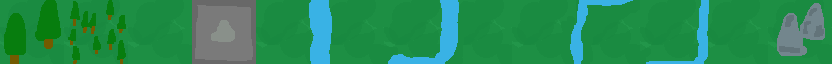
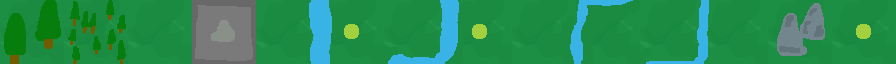
MC-01 : Node selector/cleaner + new tileAtlas + buildable zone

diff --git a/views/assets/ville.js b/views/assets/ville.js
@@ -2,19 +2,20 @@ var currentIndex = 1;
 window.onload = function () {
     document.getElementById("rochers").addEventListener("click", changeNode);
     document.getElementById("arbres").addEventListener("click", changeNode);
+    document.getElementById("clear").addEventListener("click", changeNode);
     var map = {
         cols: 11,
         rows: 11,
         tsize: 64,
         tiles: [
-            03, 03, 01, 03, 05, 06, 03, 03, 03, 03, 13,
-            13, 03, 03, 03, 07, 08, 03, 03, 01, 03, 02,
-            04, 03, 03, 09, 10, 03, 03, 03, 03, 03, 02,
-            04, 03, 03, 11, 12, 03, 01, 03, 03, 03, 13,
-            04, 04, 03, 03, 03, 03, 03, 03, 03, 02, 02,
-            04, 13, 03, 03, 03, 03, 03, 03, 13, 02, 02,
-            04, 03, 03, 03, 03, 03, 03, 03, 02, 02, 02,
-            03, 03, 01, 03, 03, 03, 03, 03, 03, 02, 02,
+            03, 03, 01, 03, 05, 06, 14, 14, 14, 03, 13,
+            13, 03, 03, 03, 07, 08, 14, 14, 01, 03, 02,
+            04, 03, 03, 09, 10, 14, 14, 14, 14, 03, 02,
+            04, 03, 03, 11, 12, 14, 01, 14, 14, 03, 13,
+            04, 04, 03, 03, 03, 14, 14, 14, 14, 02, 02,
+            04, 13, 03, 03, 03, 14, 14, 14, 13, 02, 02,
+            04, 03, 03, 03, 03, 14, 14, 14, 02, 02, 02,
+            03, 03, 01, 03, 03, 14, 14, 14, 03, 02, 02,
             03, 03, 03, 03, 03, 03, 01, 03, 13, 02, 02,
             13, 03, 03, 03, 03, 03, 03, 03, 02, 02, 02,
             03, 03, 03, 03, 03, 03, 13, 02, 02, 02, 02,
@@ -28,11 +29,11 @@ window.onload = function () {
         5, 6, 7, 8,
         16, 17, 18,
         27, 28, 29, 30,
-        38,40, 41,
+        38, 40, 41,
         49, 50, 51, 52,
         60, 61, 62,
         71, 72, 73,
-        82,83,84
+        82, 83, 84
     ]
     var canvas = document.getElementById('c');
     var context = document.getElementById('c').getContext('2d');
@@ -64,25 +65,29 @@ window.onload = function () {
             var coordX = Math.floor(mouseX / 64)
             var coordY = Math.floor(mouseY / 64)
             // retrieve id of the clicked square in array
-            var clickedSquare = coordX - 11 * coordY;
-
-            //if clicked square is in the buildable ones @TODO check if already building on pos
-            if (buildableSquare.includes(clickedSquare)) {
-                if (confirm('Construire sur cette case ? ' + coordX + ':' + coordY)) {
-                    contextBuilding.drawImage(
-                        tileAtlas, // image
-                        (currentIndex - 1) * map.tsize, // source x
-                        0, // source y
-                        map.tsize, // source width
-                        map.tsize, // source height
-                        coordX * map.tsize,  // target x
-                        coordY * map.tsize, // target y
-                        map.tsize, // target width
-                        map.tsize // target height
-                    );
+            var clickedSquare = coordX + 11 * coordY;
+            if (currentIndex >= 0) {
+                //if clicked square is in the buildable ones @TODO check if already building on pos
+                if (buildableSquare.includes(clickedSquare)) {
+                    if (confirm('Construire sur cette case ? ' + coordX + ':' + coordY)) {
+                        contextBuilding.drawImage(
+                            tileAtlas, // image
+                            (currentIndex - 1) * map.tsize, // source x
+                            0, // source y
+                            map.tsize, // source width
+                            map.tsize, // source height
+                            coordX * map.tsize,  // target x
+                            coordY * map.tsize, // target y
+                            map.tsize, // target width
+                            map.tsize // target height
+                        );
+                    }
+                } else {
+                    alert('Pas constructible !')
                 }
             } else {
-                alert('Pas constructible !')
+
+                contextBuilding.clearRect(coordX*64, coordY*64, 64, 64);
             }
         }
     }

diff --git a/views/assets/ville.css b/views/assets/ville.css
@@ -114,3 +114,18 @@ body {
 .build-select:hover{
   color: rgb(175, 175, 175)
 }
+
+.card {
+  /* Add shadows to create the "card" effect */
+  box-shadow: 0 4px 8px 0 rgba(0,0,0,0.2);
+  transition: 0.3s;
+}
+
+/* On mouse-over, add a deeper shadow */
+.card:hover {
+  box-shadow: 0 8px 16px 0 rgba(0,0,0,0.2);
+} 
+
+li.build-select:not(:last-child) { 
+  margin-bottom: 10px;  
+}
